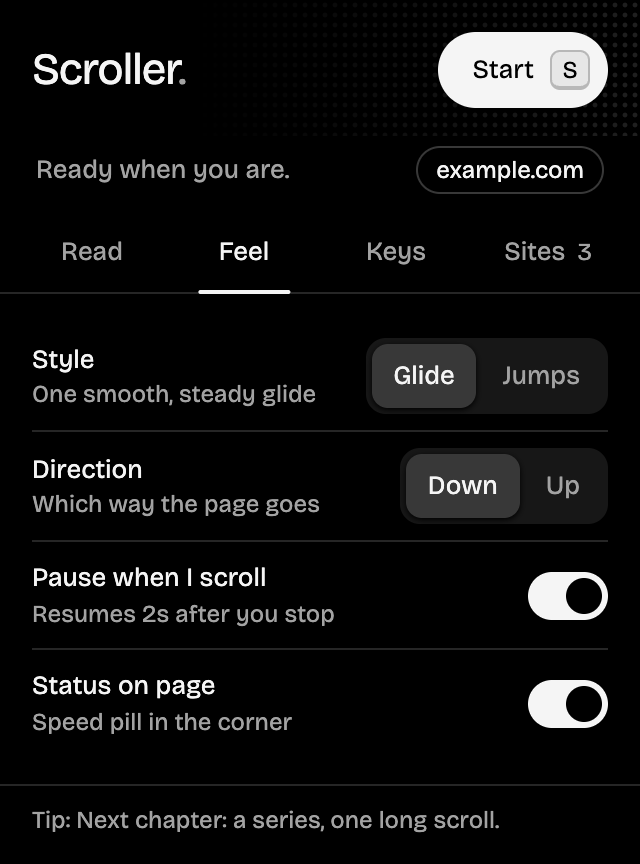
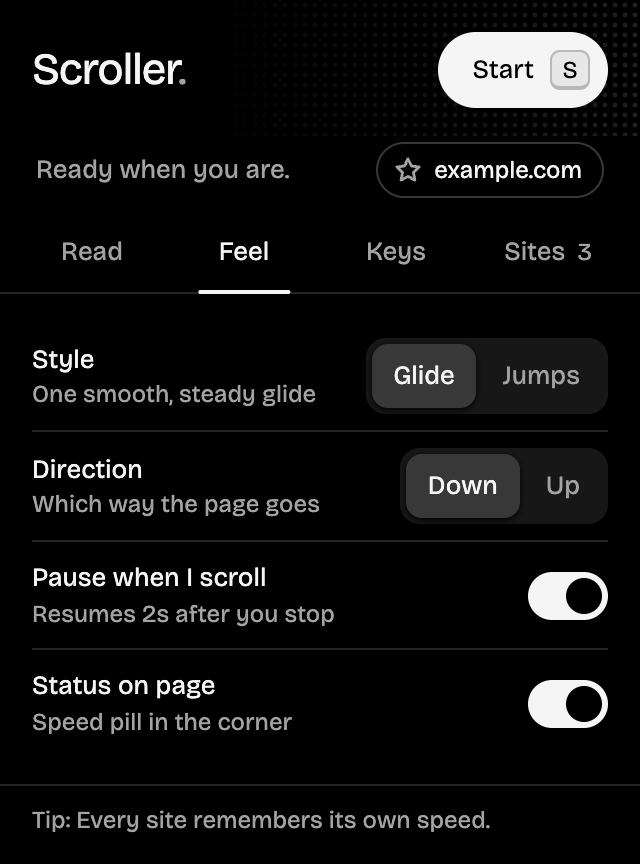
docs: favorites and tap step in README, CHANGELOG and screenshots
README covers starring favorites and choosing the faster/slower step,
with updated Usage rows. CHANGELOG 1.2.0 adds both features and the
low-speed tap fix. Keys and Sites screenshots show the Step setting
and a Favorites section.

Changed region(s): [[0.625, 0.1562, 0.9375, 0.25], [0.125, 0.9375, 0.7812, 0.9688]]

diff --git a/README.md b/README.md
@@ -33,9 +33,10 @@
 - **One key to start and stop.** Defaults to `S`; change it to any key you like.
 - **Any speed, 1 to 5000 px/s.** A logarithmic slider gives the slow end as much room as the fast end. Type an exact number, or pick a preset from *Too damn slow* to *Too damn fast*.
 - **Remembers speed per site.** Every reader sizes its pages differently, so each site keeps its own speed. New sites start from the last speed you used. The **Sites** tab lists every site's speed; forget any of them (with undo).
+- **Favorite sites.** Star the readers you love, from the site chip in the popup or the Sites tab. Favorites are pinned to the top and open in one click. Nothing is starred until you star it.
 - **Hold to pause.** Hold `Shift` to freeze on a dense panel; let go and it carries on.
 - **Next chapter, automatically.** At the end of a chapter Scroller can find the reader's *Next* button and keep going on the next one. A whole series, hands-free.
-- **Adjust while reading.** `]` speeds up 25%, `[` takes it back down a step.
+- **Adjust while reading.** `]` speeds up, `[` slows down. Pick how big each tap is on the Keys tab: 10%, 25%, 50% or 2×.
 - **Glide or page jumps.** Scroll continuously, or jump ½, ¾ or a full screen at a time.
 - **Up or down.**
 - **Gentle starts and stops.** Eases in and out instead of lurching.
@@ -67,12 +68,13 @@ Works in Chrome and other Chromium browsers (Edge, Brave, Arc, Opera, Vivaldi).
 | --- | --- | --- |
 | Start / stop | `S` | Or click **Start** in the popup |
 | Hold to pause | `Shift` | Resumes when you let go |
-| Faster | `]` | +25% per press, saved for this site |
-| Slower | `[` | −20% per press (undoes one faster press), saved for this site |
+| Faster | `]` | +25% per press by default (Keys → *Step*), saved for this site |
+| Slower | `[` | Undoes one faster press, saved for this site |
 | Set an exact speed | | Drag the slider, type a number, or click a preset |
 | Remap a key | | Click it in the popup, press the new key (`Esc` cancels) |
 | See or forget saved sites | | **Sites** tab; × forgets a site, **Undo** brings it back |
 | Reset keys | | **Keys** tab → *Restore default keys* |
+| Favorite a site | | Click the star on the site chip, or next to any site in the **Sites** tab |
 
 Keys are ignored while you're typing in a text box. Start, faster and slower never fire with `Ctrl`, `Cmd` or `Alt` held, so they won't clash with browser shortcuts. The hold key may be a modifier (`Shift`, `Ctrl`, `Alt`, `Cmd`) and still passes through to the page, so `Shift`+click keeps working.
 
@@ -99,7 +101,7 @@ Keys are ignored while you're typing in a text box. Start, faster and slower nev
 
 ## Privacy and permissions
 
-No accounts, no tracking, no analytics, no network requests. Settings, including your per-site speeds, stay in your browser's local extension storage. You can review and forget saved sites anytime in the popup's **Sites** tab; removing the extension deletes everything.
+No accounts, no tracking, no analytics, no network requests. Settings, including your per-site speeds, stay in your browser's local extension storage. You can review, star and forget saved sites anytime in the popup's **Sites** tab; removing the extension deletes everything.
 
 | Permission | Why |
 | --- | --- |

diff --git a/CHANGELOG.md b/CHANGELOG.md
@@ -6,6 +6,8 @@ All notable changes to Scroller are listed here. The format follows [Keep a Chan
 
 ### Added
 - **Sites** tab: every site with a remembered speed, the current site first, each with a button to forget it (and Undo).
+- **Favorite sites**: star a site from the status chip or the Sites tab. Favorites are pinned on top and open in one click. Nothing is starred by default.
+- **Step** setting on the Keys tab: faster/slower taps change speed by 10%, 25% (default), 50% or 2×.
 - **Reload tab** banner when the popup can't reach the page, instead of a disabled button.
 - Status line under the header showing whether it's scrolling and which site you're on.
 - Speed in human terms: how long one screen takes, plus a line of personality per preset.
@@ -17,6 +19,9 @@ All notable changes to Scroller are listed here. The format follows [Keep a Chan
 - *At the end* explains the selected option on screen instead of in a tooltip. Jump size only shows in Jumps mode. "Page jumps" is now "Jumps".
 - Larger tap targets, screen-reader labels for the slider and key buttons, and announced status messages.
 - The on-page status pill is black to match.
+
+### Fixed
+- Faster/slower taps no longer do nothing at very low speeds; each tap moves at least 1 px/s.
 
 ## [1.1.0] - 2026-10-08
 
